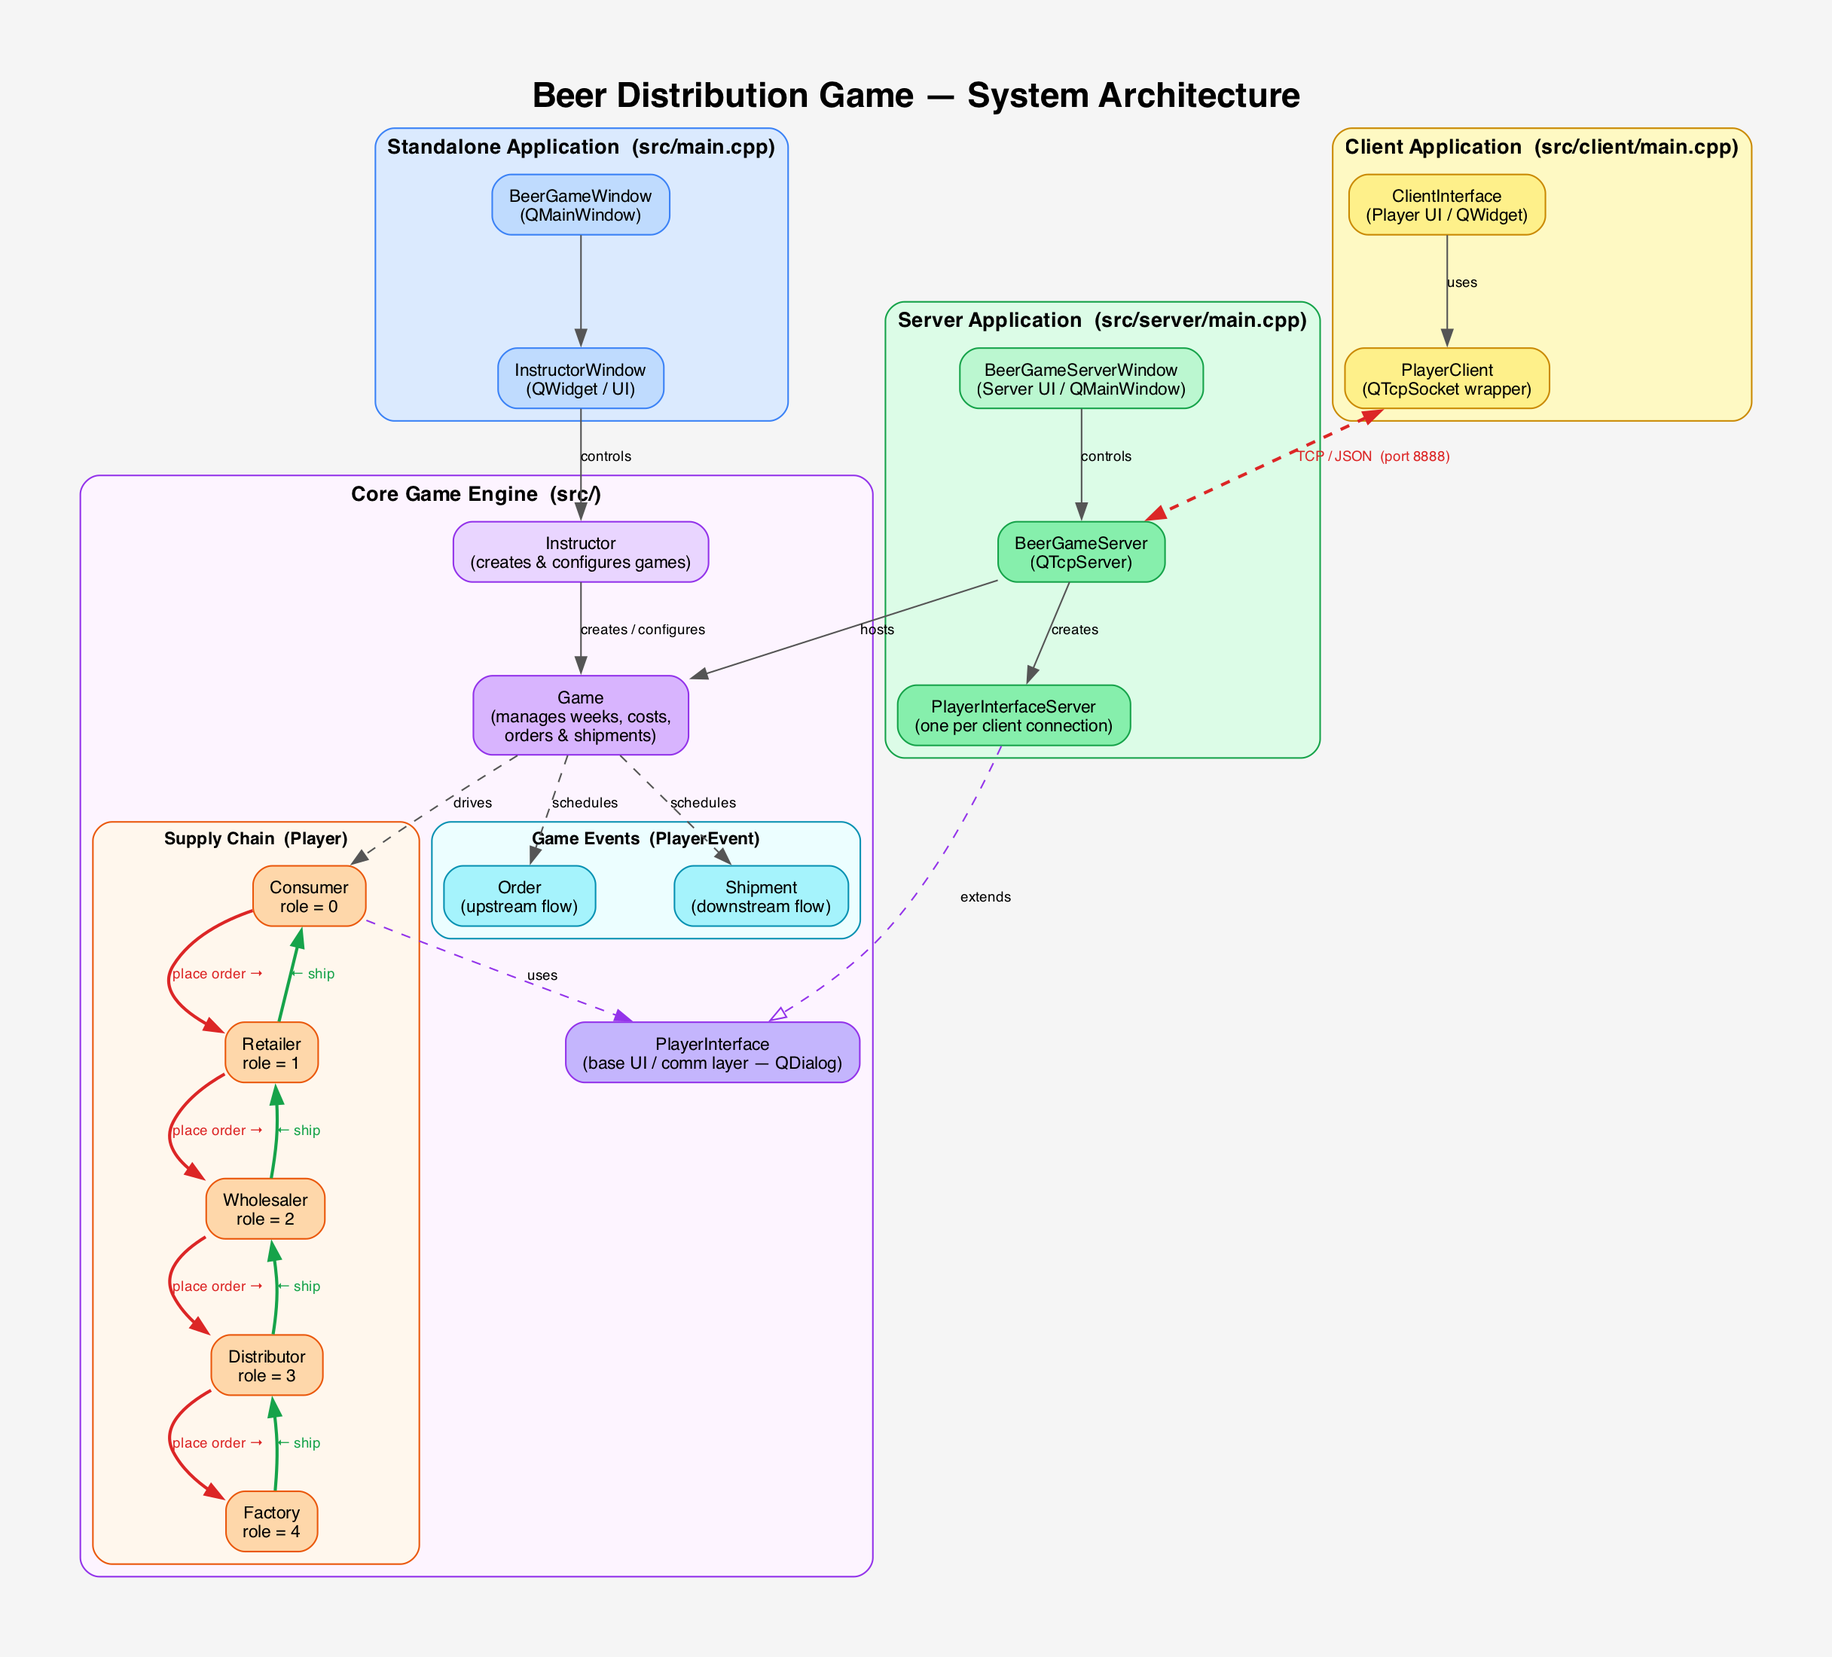
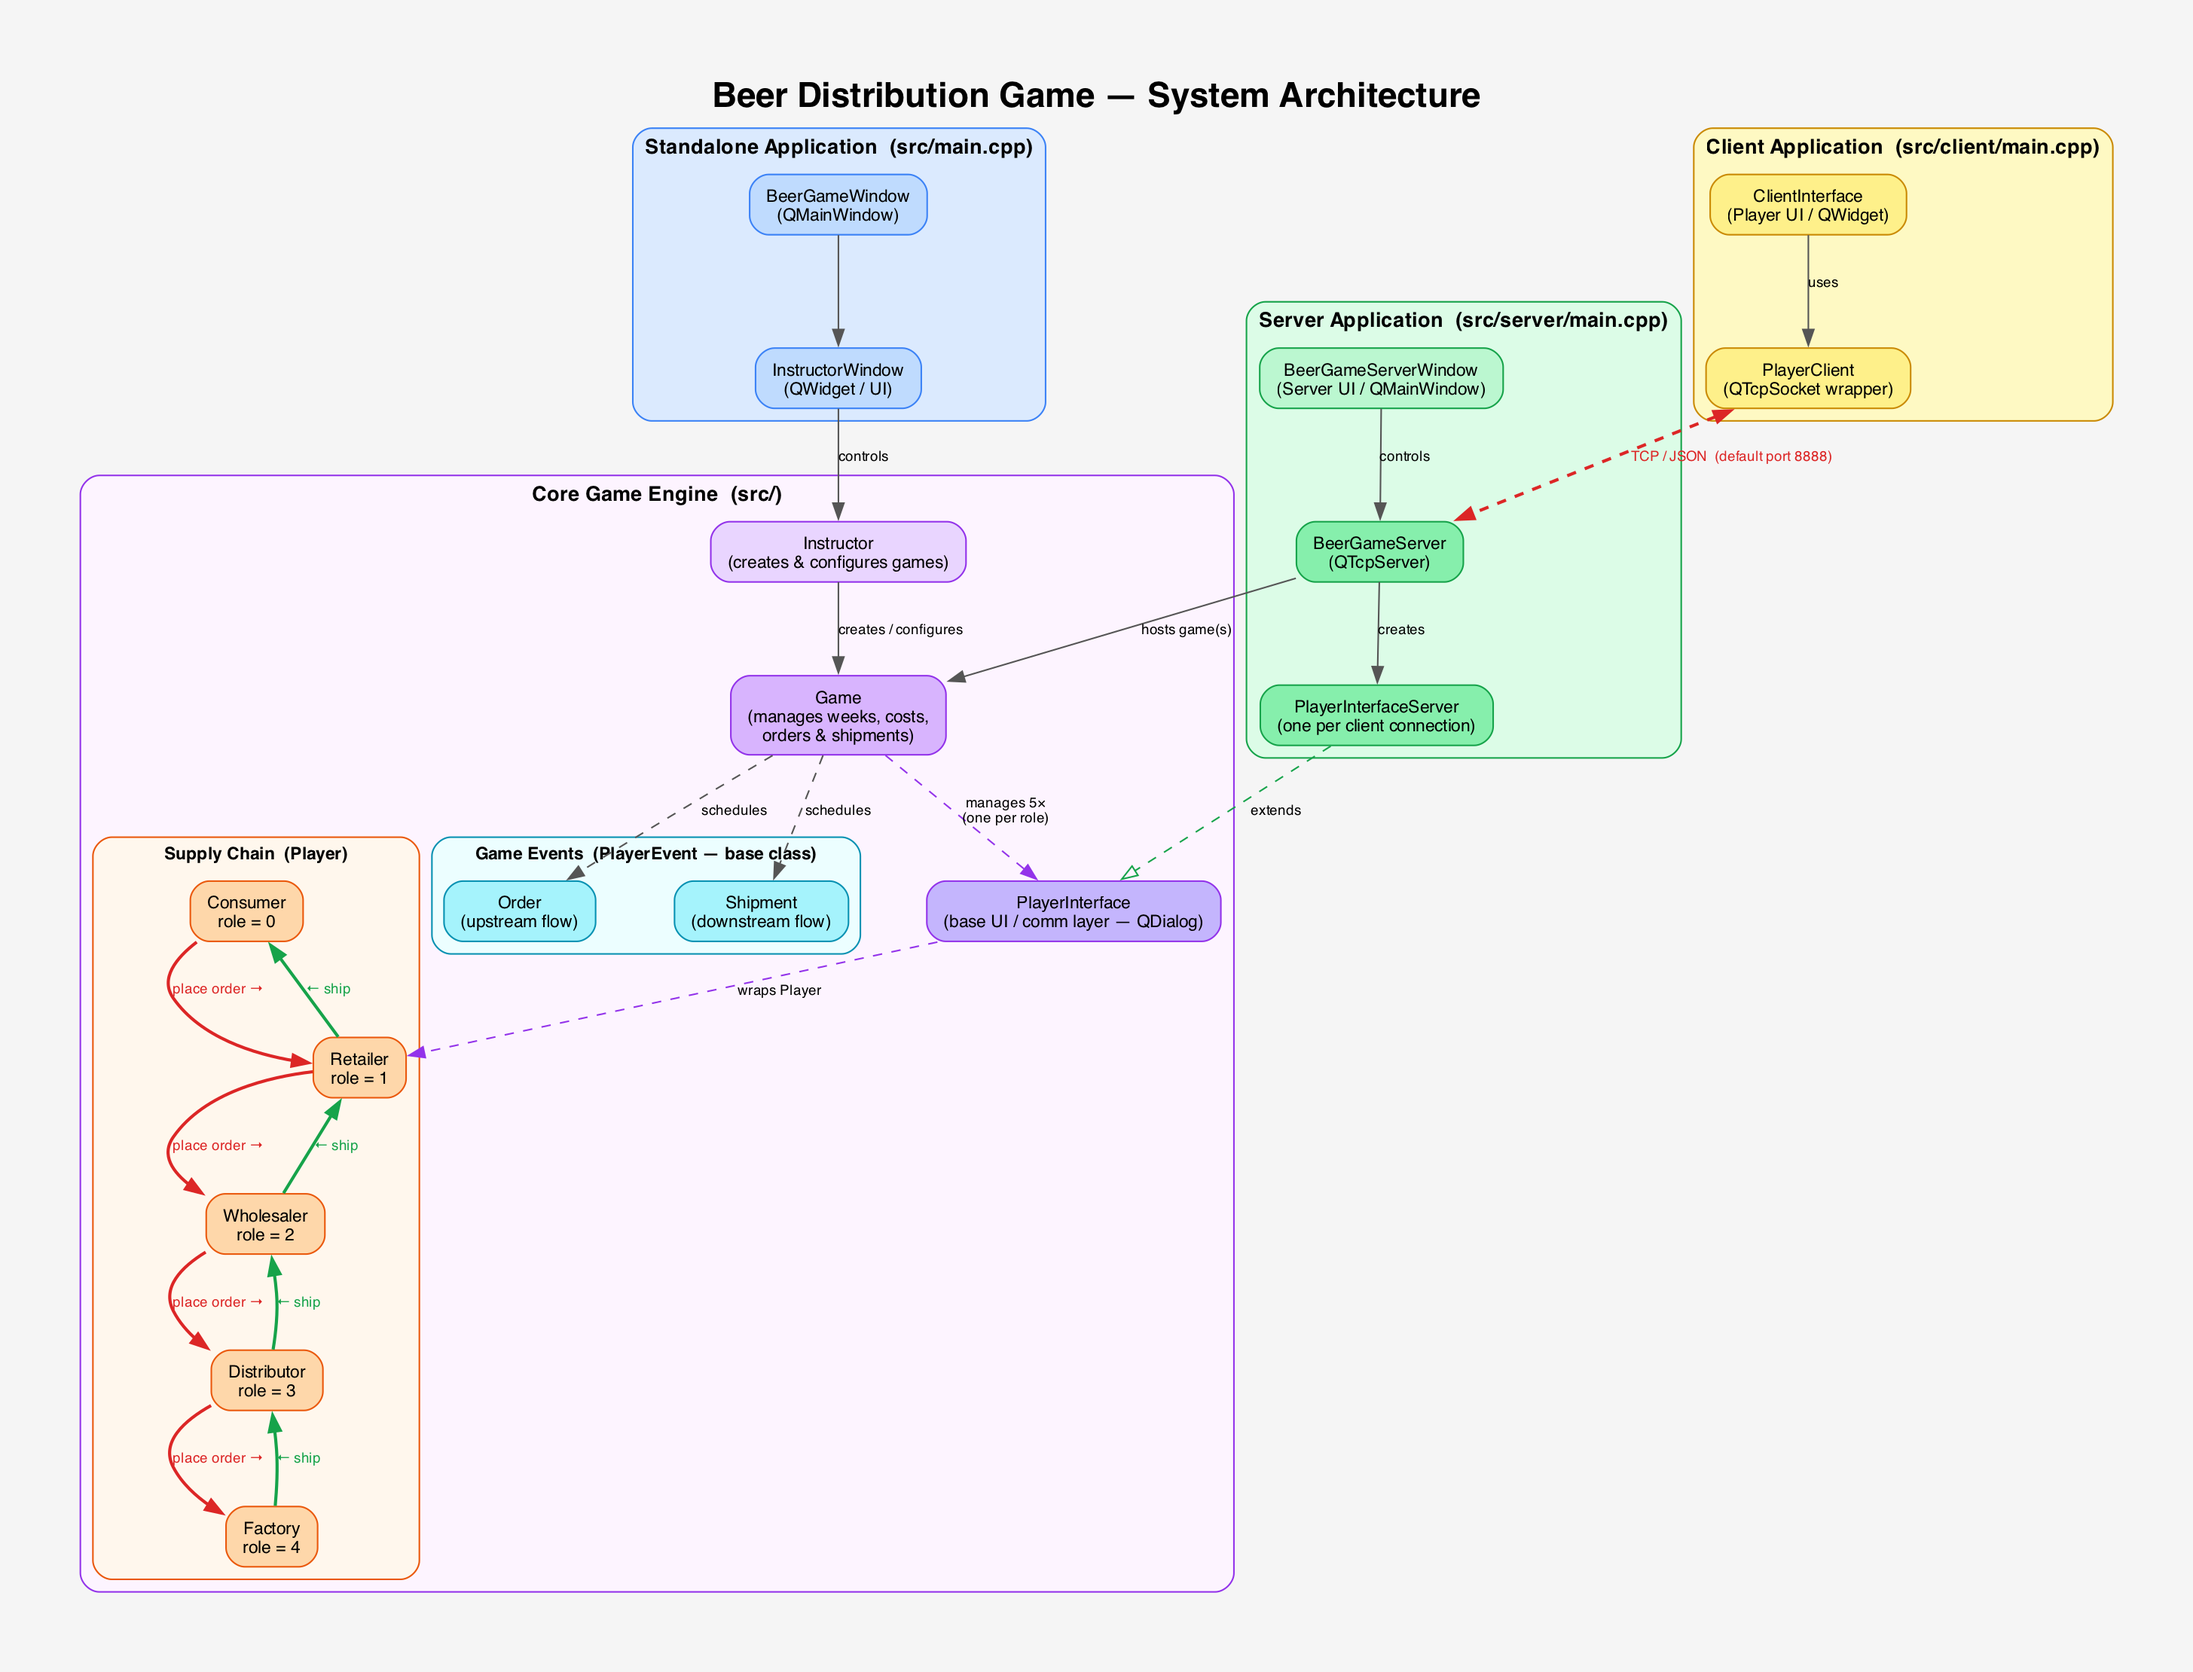
Updated the readme file with more implementation details

Changed region(s): [[0.0312, 0.0309, 0.9688, 0.9582], [0.0312, 0.2782, 0.0625, 0.3091]]

diff --git a/README.md b/README.md
@@ -17,10 +17,10 @@ The main features in the repository that I developed:
 The system is built with **Qt (C++)** and consists of three deployable executables sharing a common core game engine:
 
 - **Standalone** (`beergame`) — all five supply chain roles run on one machine, controlled by an Instructor.
-- **Server** (`beergame-server`) — hosts the game via TCP; one `PlayerInterfaceServer` is created per connected client.
-- **Client** (`beergame-client`) — each player connects over TCP/JSON (port 8888) and interacts through `ClientInterface`.
+- **Server** (`beergame-server`) — hosts the game via TCP on a configurable IP and port (default `8888`); one `PlayerInterfaceServer` is created per connected client.
+- **Client** (`beergame-client`) — each player connects over TCP/JSON and interacts through `ClientInterface`.
 
-The **supply chain** runs Consumer → Retailer → Wholesaler → Distributor → Factory. Orders flow upstream (red) and shipments flow downstream (green), both scheduled week-by-week by the `Game` class.
+The **supply chain** runs Consumer → Retailer → Wholesaler → Distributor → Factory. Orders flow upstream (red) and shipments flow downstream (green), both scheduled week-by-week by the `Game` class. Every `Player` is wrapped by a `PlayerInterface`; the server replaces it with `PlayerInterfaceServer` (which extends `PlayerInterface`) to forward events as JSON over a `QTcpSocket`.
 
 ### Building the game
 ```
